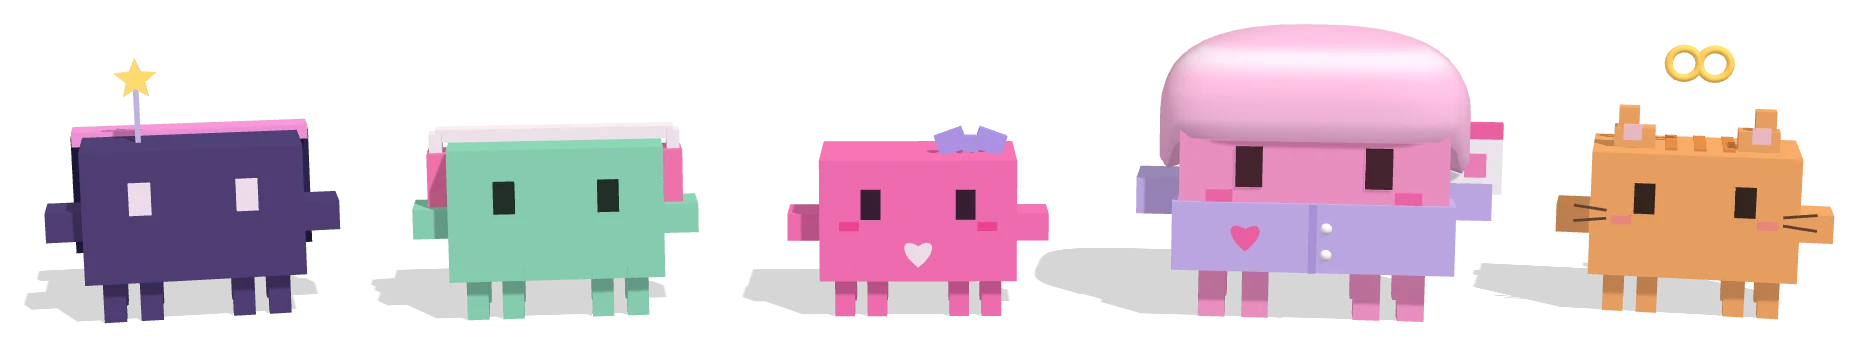
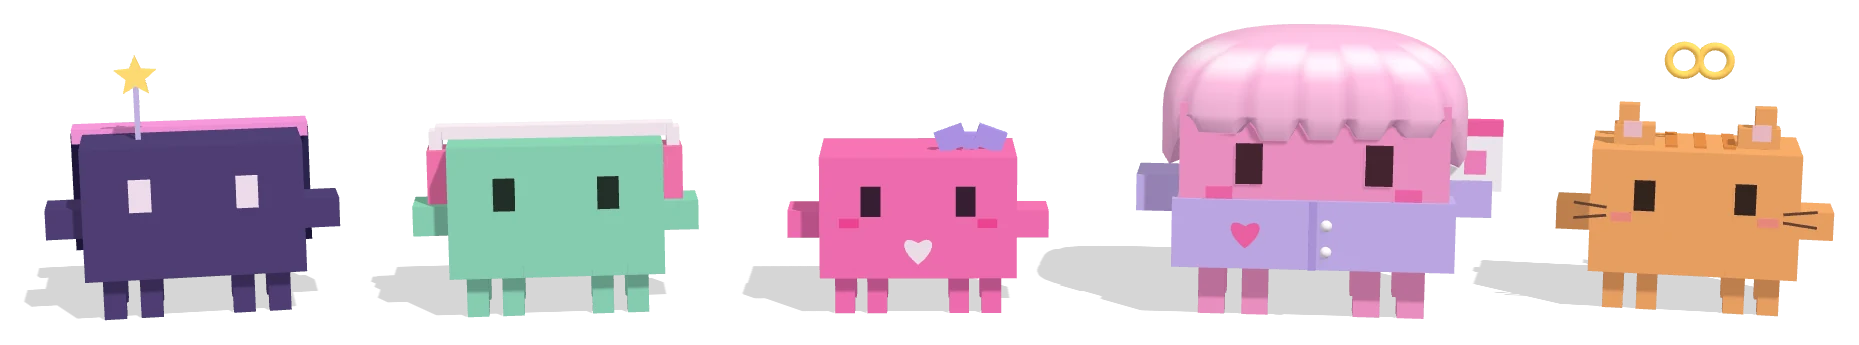
🍄 みくろん姉のマッシュに毛束を：ヘルメットに見えないように (ver.13)
- ouchi/js/clawd.js：つるんとした一枚のおわんだった髪に、すその切れこみ（毛束のさかいめ）と、てっぺんへ向かう筋を入れた。天使の輪っかは毛束ごとに少しずらして、ぎざぎざに
- character-sheet：みくろん姉の4方向と背くらべを撮り直し、トレードマークの説明を更新
- CHARACTER.md：みくろん姉の見た目のメモを更新
- おうちを ver.13（おねえちゃんの毛束マッシュ版）に

Claude-Session: https://claude.ai/code/session_01D1ewsJgFXREq9MRfWXY3pk

diff --git a/ouchi/js/clawd.js b/ouchi/js/clawd.js
@@ -254,43 +254,77 @@ export function makeMikanyan() {
 }
 
 // マッシュルームカットの髪：角のまるい四角を、すそからてっぺんへ積んだおわん形。
-// すそは前がぱっつん（目のすぐ上）、横は少し長く、毛先はちょっと内巻き。てっぺんの近くに天使の輪っか
-const HAIR_A = 0.585, HAIR_C = 0.445, HAIR_Z = -0.035;
-const HAIR_HEM = 0.5, HAIR_SIDE = 0.36, HAIR_WALL = H - 0.04, HAIR_TOP = H + 0.27;
+// すそは前がぱっつん（目のすぐ上）、横は少し長く、毛先はちょっと内巻き。てっぺんの近くに天使の輪っか。
+// つるんとした一枚だとヘルメットに見えるので、すそに切れこみを入れて毛束に分け、そこからてっぺんへ向かう筋をつけてある
+const HAIR_A = 0.575, HAIR_C = 0.43, HAIR_Z = -0.03;
+const HAIR_HEM = 0.5, HAIR_SIDE = 0.36, HAIR_BACK = 0.39, HAIR_WALL = H - 0.04, HAIR_TOP = H + 0.26;
+// 毛束のさかいめ：[角度, 切れこみのつよさ, そこから始まる毛束の長さのゆらぎ（＋で短く）]
+// 角度は 90 が顔の正面、0 が向かって右、-90 がうしろ。小さい順に、頂点にのるよう偶数で
+const HAIR_CUTS = [
+    [12, 0.8, 0.012], [46, 1, 0.006], [62, 0.8, 0], [78, 1, -0.006], [96, 0.7, -0.012], [114, 1, 0.012], [134, 1, 0.006],
+    [172, 0.8, 0], [-140, 1, -0.006], [-114, 0.8, -0.012], [-92, 1, 0.012], [-70, 0.8, 0.006], [-40, 1, -0.012],
+];
 
-function mushroomHair(color, shine) {
-    const SEG = 64, DOME = 12, P = 2.4;
+function mushroomHair(color, shine, shade) {
+    const SEG = 180, DOME = 14, P = 2.4;
+    const NOTCH = 0.075, CUT_W = 4, GROOVE = 0.02;
     const sstep = (a, b, v) => { const k = Math.min(1, Math.max(0, (v - a) / (b - a))); return k * k * (3 - 2 * k); };
-    const base = new THREE.Color(color), lite = new THREE.Color(shine);
+    const base = new THREE.Color(color), lite = new THREE.Color(shine), dark = new THREE.Color(shade);
+    // たての線（経線）ごとに：筋のこさ g、すその持ち上がり lift、天使の輪っかのずれ zig
+    const cuts = HAIR_CUTS.map(([d, s, len]) => [(d + 360) % 360, s, len]);
+    const g = [], lift = [], zig = [];
+    for (let i = 0; i < SEG; i++) {
+        const deg = (i / SEG) * 360;
+        let gi = 0, notch = 0, lock = cuts.length - 1;
+        cuts.forEach(([c, s], n) => {
+            const d = Math.abs(deg - c);
+            const tri = Math.max(0, 1 - Math.min(d, 360 - d) / CUT_W);
+            gi = Math.max(gi, tri * s);
+            notch = Math.max(notch, tri * (0.6 + 0.4 * s));
+            if (c <= deg) lock = n;
+        });
+        g.push(gi);
+        lift.push(notch * NOTCH + (1 - notch) * cuts[lock][2]);
+        zig.push(((lock + 1) % cuts.length) % 2 ? 0.035 : -0.035);
+    }
     const pos = [], col = [], idx = [];
     const tmp = new THREE.Color();
     const rings = [];
-    const ring = (yOf, k, shineOf, n = 5) => {
+    // k は輪の大きさ、fade は筋のこさ（1 がすそ、てっぺんへ向かって 0 に）
+    const ring = (yOf, k, { n = 5, fade = 1, shineOf } = {}) => {
         const start = pos.length / 3;
         for (let i = 0; i < SEG; i++) {
             const f = (i / SEG) * Math.PI * 2;
             const cx = Math.cos(f), sz = Math.sin(f);
             const q = Math.pow(Math.pow(Math.abs(cx), n) + Math.pow(Math.abs(sz), n), -1 / n);
             const u = cx * q, w = sz * q;
-            pos.push(u * HAIR_A * k, yOf(u, w), w * HAIR_C * k);
-            tmp.copy(base).lerp(lite, shineOf ? shineOf(u, w) : 0);
+            const gg = g[i] * fade;
+            const kk = k * (1 - GROOVE * gg);
+            pos.push(u * HAIR_A * kk, yOf(u, w, i), w * HAIR_C * kk);
+            tmp.copy(base).lerp(lite, shineOf ? shineOf(w, i) : 0).lerp(dark, 0.4 * gg);
             col.push(tmp.r, tmp.g, tmp.b);
         }
         rings.push(start);
         return start;
     };
     // w は前うしろ（+1 が顔がわ）。すその高さは、角をまわったところでなだらかに変わる
-    const hem = (u, w) => HAIR_SIDE + (HAIR_HEM - HAIR_SIDE) * sstep(0.55, 0.9, w) + 0.03 * sstep(-0.55, -0.9, w);
-    ring(hem, 0.955);
-    ring((u, w) => hem(u, w) + 0.045, 1);
+    const hem = (u, w) => HAIR_SIDE + (HAIR_HEM - HAIR_SIDE) * sstep(0.55, 0.9, w) + (HAIR_BACK - HAIR_SIDE) * sstep(-0.55, -0.9, w);
+    // 切れこみが深くても、すその輪が上の輪を追いこさないように
+    const curl = (u, w, i) => Math.min(hem(u, w) + 0.045 + lift[i] * 0.75, HAIR_WALL - 0.008);
+    const tip = (u, w, i) => Math.min(hem(u, w) + lift[i], curl(u, w, i) - 0.014);
+    ring(tip, 0.955);
+    ring(curl, 1);
     ring(() => HAIR_WALL, 1);
     for (let j = 1; j <= DOME; j++) {
-        const th = (j / DOME) * Math.PI / 2;
+        const s = j / DOME, th = s * Math.PI / 2;
         const k = Math.pow(Math.cos(th), 2 / P);
         const y = HAIR_WALL + (HAIR_TOP - HAIR_WALL) * Math.pow(Math.sin(th), 2 / P);
-        // 天使の輪っか：前のほうだけ、帯になって光る
-        const band = sstep(0.28, 0.4, j / DOME) * (1 - sstep(0.5, 0.62, j / DOME));
-        ring(() => y, Math.max(k, 0.001), (u, w) => band * sstep(-0.15, 0.55, w) * 0.85, 5 - 2.6 * (j / DOME));
+        // 天使の輪っか：前のほうだけ、帯になって光る。毛束ごとに少しずれて、ぎざぎざに
+        const shineOf = (w, i) => {
+            const c = 0.44 + zig[i];
+            return sstep(c - 0.17, c - 0.07, s) * (1 - sstep(c + 0.05, c + 0.15, s)) * sstep(-0.15, 0.55, w) * 0.9;
+        };
+        ring(() => y, Math.max(k, 0.001), { n: 5 - 2.6 * s, fade: 1 - sstep(0.25, 0.7, s), shineOf });
     }
     for (let n = 0; n < rings.length - 1; n++) {
         const a = rings[n], b = rings[n + 1];
@@ -300,9 +334,9 @@ function mushroomHair(color, shine) {
         }
     }
     // すその内がわ（下からのぞいたとき用のふた）
-    const under = ring(hem, 0.955);
+    const under = ring(tip, 0.955);
     const mid = pos.length / 3;
-    pos.push(0, HAIR_HEM, 0);
+    pos.push(0, HAIR_HEM + 0.07, 0);
     col.push(base.r, base.g, base.b);
     for (let i = 0; i < SEG; i++) idx.push(mid, under + i, under + (i + 1) % SEG);
 
@@ -314,10 +348,10 @@ function mushroomHair(color, shine) {
     return new THREE.Mesh(geo, new THREE.MeshLambertMaterial({ vertexColors: true }));
 }
 
-// みくろん姉（396Hz）：ひとまわり大きくて、まあるいマッシュルームカットとラベンダーのカーディガン、日めくりカレンダー
+// みくろん姉（396Hz）：ひとまわり大きくて、毛束のあるまあるいマッシュルームカットとラベンダーのカーディガン、日めくりカレンダー
 export function makeMikuroNee() {
     const r = createClawd({ color: 0xff9fd0, scale: 1.18, eye: 0x4a2b34, blush: 0xff6fb3, arm: 0xcdb9f4, topExtra: 0.32 });
-    const hair = mushroomHair(0xffc3e3, 0xfff1f8);
+    const hair = mushroomHair(0xffc3e3, 0xfff1f8, 0xe58fc0);
     hair.position.z = HAIR_Z;
     hair.castShadow = hair.receiveShadow = true;
     r.body.add(hair);

diff --git a/character-sheet/index.html b/character-sheet/index.html
@@ -337,7 +337,7 @@ footer .sign { font-family: var(--font-dot); font-size: 16px; color: var(--ink-2
         <p class="lead">おうちに住んでる子みくろんと、遊びに来てくれるソルフェジオ共鳴ファミリーの4人。ゲームの3Dモデルをそのまま4方向から撮って、パステルアニメのイラスト版もそえて、色・ことば・とくいなこと・セリフといっしょに1人1枚にまとめたよ。</p>
         <figure class="lineup">
             <div class="lineup-stage">
-                <img src="img/lineup.webp" width="1859" height="348" alt="5人の背くらべ。左からクロミちゃん、まの、子みくろん、みくろん姉、みかにゃん。みくろん姉がいちばん大きく、子みくろんがいちばん小さい">
+                <img src="img/lineup.webp" width="1859" height="345" alt="5人の背くらべ。左からクロミちゃん、まの、子みくろん、みくろん姉、みかにゃん。みくろん姉がいちばん大きく、子みくろんがいちばん小さい">
                 <a class="tag" href="#kuromi" style="left: 10.7%; --c: #6a55a8; --ci: #5a4598; --cd: #bdaef2">クロミちゃん<span>963Hz</span></a>
                 <a class="tag" href="#mano" style="left: 30.1%; --c: #33b583; --ci: #1d8358; --cd: #74d9ac">まの<span>528Hz</span></a>
                 <a class="tag" href="#km" style="left: 49.4%; --c: #ff6bae; --ci: #c93a78; --cd: #ff94c6">子みくろん<span>396Hz</span></a>
@@ -584,10 +584,10 @@ footer .sign { font-family: var(--font-dot); font-size: 16px; color: var(--ink-2
             <p class="tagline">子みくろんのおねえちゃん。ひとまわり大きくて、芋煮をこしゃってくれる現場のお姉さん。</p>
         </div>
         <div class="turn">
-            <figure><img src="img/nee-front.webp" width="977" height="728" alt="みくろん姉 正面。日めくりカレンダーを持っている" loading="lazy"><figcaption>正面</figcaption></figure>
-            <figure><img src="img/nee-three-quarter.webp" width="977" height="728" alt="みくろん姉 ななめ前" loading="lazy"><figcaption>ななめ</figcaption></figure>
-            <figure><img src="img/nee-side.webp" width="977" height="728" alt="みくろん姉 横" loading="lazy"><figcaption>よこ</figcaption></figure>
-            <figure><img src="img/nee-back.webp" width="977" height="728" alt="みくろん姉 うしろ。まあるいマッシュルームカット" loading="lazy"><figcaption>うしろ</figcaption></figure>
+            <figure><img src="img/nee-front.webp" width="977" height="722" alt="みくろん姉 正面。日めくりカレンダーを持っている" loading="lazy"><figcaption>正面</figcaption></figure>
+            <figure><img src="img/nee-three-quarter.webp" width="977" height="722" alt="みくろん姉 ななめ前" loading="lazy"><figcaption>ななめ</figcaption></figure>
+            <figure><img src="img/nee-side.webp" width="977" height="722" alt="みくろん姉 横" loading="lazy"><figcaption>よこ</figcaption></figure>
+            <figure><img src="img/nee-back.webp" width="977" height="722" alt="みくろん姉 うしろ。毛束のあるまあるいマッシュルームカット" loading="lazy"><figcaption>うしろ</figcaption></figure>
         </div>
         <figure class="illust">
             <img src="img/nee-illust.webp" width="2688" height="1520" alt="みくろん姉のイラスト版。正面・ななめ・よこ・うしろの4方向" loading="lazy">
@@ -598,7 +598,7 @@ footer .sign { font-family: var(--font-dot); font-size: 16px; color: var(--ink-2
                 <h3>プロフィール</h3>
                 <dl class="profile">
                     <div><dt>周波数</dt><dd>396Hz（解放・浄化の音）</dd></div>
-                    <div><dt>トレードマーク</dt><dd>パステルピンクのまあるいマッシュルームカット（前髪ぱっつん・天使の輪っかつき）、ハートのワッペンつきラベンダーのカーディガン、手には日めくりカレンダー</dd></div>
+                    <div><dt>トレードマーク</dt><dd>パステルピンクのまあるいマッシュルームカット（前髪ぱっつん・毛束の切れこみ・天使の輪っかつき）、ハートのワッペンつきラベンダーのカーディガン、手には日めくりカレンダー</dd></div>
                     <div><dt>ことば</dt><dd>山形弁MAX。「だず」「べした」「いぎなり（とっても）」「むったど（いっつも）」「こしゃう（つくる）」「あばえ（またね）」</dd></div>
                     <div><dt>とくいなこと</dt><dd>芋煮をつくること。みんながそろえば芋煮会に</dd></div>
                     <div><dt>なかよし</dt><dd>クロミちゃんと花笠音頭×かちゃーしー（いとこ同士）／みかにゃんとひなたぼっこ／まのとつぎの宝物の相談</dd></div>
@@ -630,7 +630,7 @@ footer .sign { font-family: var(--font-dot); font-size: 16px; color: var(--ink-2
     </section>
 
     <footer>
-        <p>3Dのすがたは、子みくろんのおうち ver.12（おねえちゃんのマッシュルームカット版）のモデルをそのまま撮影。イラスト版は、その写真を参考にHiggsfieldで描いたもの。セリフはゲームの中のことばから。</p>
+        <p>3Dのすがたは、子みくろんのおうち ver.13（おねえちゃんの毛束マッシュ版）のモデルをそのまま撮影。イラスト版は、その写真を参考にHiggsfieldで描いたもの。セリフはゲームの中のことばから。</p>
         <p class="sign">396Hz × 528Hz × 963Hz × ♾Hz = ♾💖✨</p>
     </footer>
 </main>

diff --git a/ouchi/js/main.js b/ouchi/js/main.js
@@ -22,8 +22,8 @@ import { damp, clamp, lerp, pick, wrapAngle } from './util.js';
 
 // ホーム視点：右手前の斜め上から、おうちと庭をまるごと
 // 中身を変えたら上げる（sw.js の CACHE_NAME の番号もいっしょに）
-const APP_VER = 12;
-const APP_VER_NAME = 'おねえちゃんのマッシュルームカット版';
+const APP_VER = 13;
+const APP_VER_NAME = 'おねえちゃんの毛束マッシュ版';
 
 const HOME = { target: new THREE.Vector3(2.0, 0.6, 2.0), polar: 0.88, azim: 0.6 };
 // おうちがいっぱいに見えるように合わせる（庭の端は少し切れてもいい）

diff --git a/ouchi/sw.js b/ouchi/sw.js
@@ -1,6 +1,6 @@
 // 子みくろんのおうち サービスワーカー
 // 中身を変えたら CACHE_NAME の番号を上げること（js/main.js の APP_VER もいっしょに）
-const CACHE_NAME = 'komikuron-ouchi-v12';
+const CACHE_NAME = 'komikuron-ouchi-v13';
 const ASSETS = [
     './',
     './index.html',

diff --git a/CHARACTER.md b/CHARACTER.md
@@ -61,7 +61,7 @@
 - ラベンダーのリボンと胸の白いハートがトレードマーク
 - `ouchi/`（子みくろんのおうち）の主人公。ソルフェジオファミリーの4人も遊びに来てくれる
   - まの：ミントグリーン＋ハートのヘッドホン ／ クロミちゃん：宇宙色マント＋星のアンテナ
-  - みかにゃん：みかん色のねこ＋∞の輪っか（お星様の猫神さま）／ みくろん姉：まあるいマッシュルームカット＋ラベンダーのカーディガン（2026-11-14 にふわふわ髪からイメチェン）
+  - みかにゃん：みかん色のねこ＋∞の輪っか（お星様の猫神さま）／ みくろん姉：まあるいマッシュルームカット＋ラベンダーのカーディガン（2026-11-14 にふわふわ髪からイメチェン。つるんとしてヘルメットに見えたので、2026-11-16 に毛束の切れこみと筋を入れた。まの「しばらくはこれで」。前のふわふわ髪は ver.11 までの `makeMikuroNee` にある）
 - マロン：子みくろんのおうちで、いっしょに暮らしている子（2026-11-11 から）
   - まのがずっと前にいっしょに暮らした、ヨークシャーテリアミックスの保護わんこ。女の子で、自分のことは「ぼく」。明るい栗色🌰で、臆病だけど、とってもやさしい
   - お外で暮らしていたマロンに、おうちの中のふかふかの寝床を。頭にピンクのリボン、ミントの首輪に小さな星のチャーム
